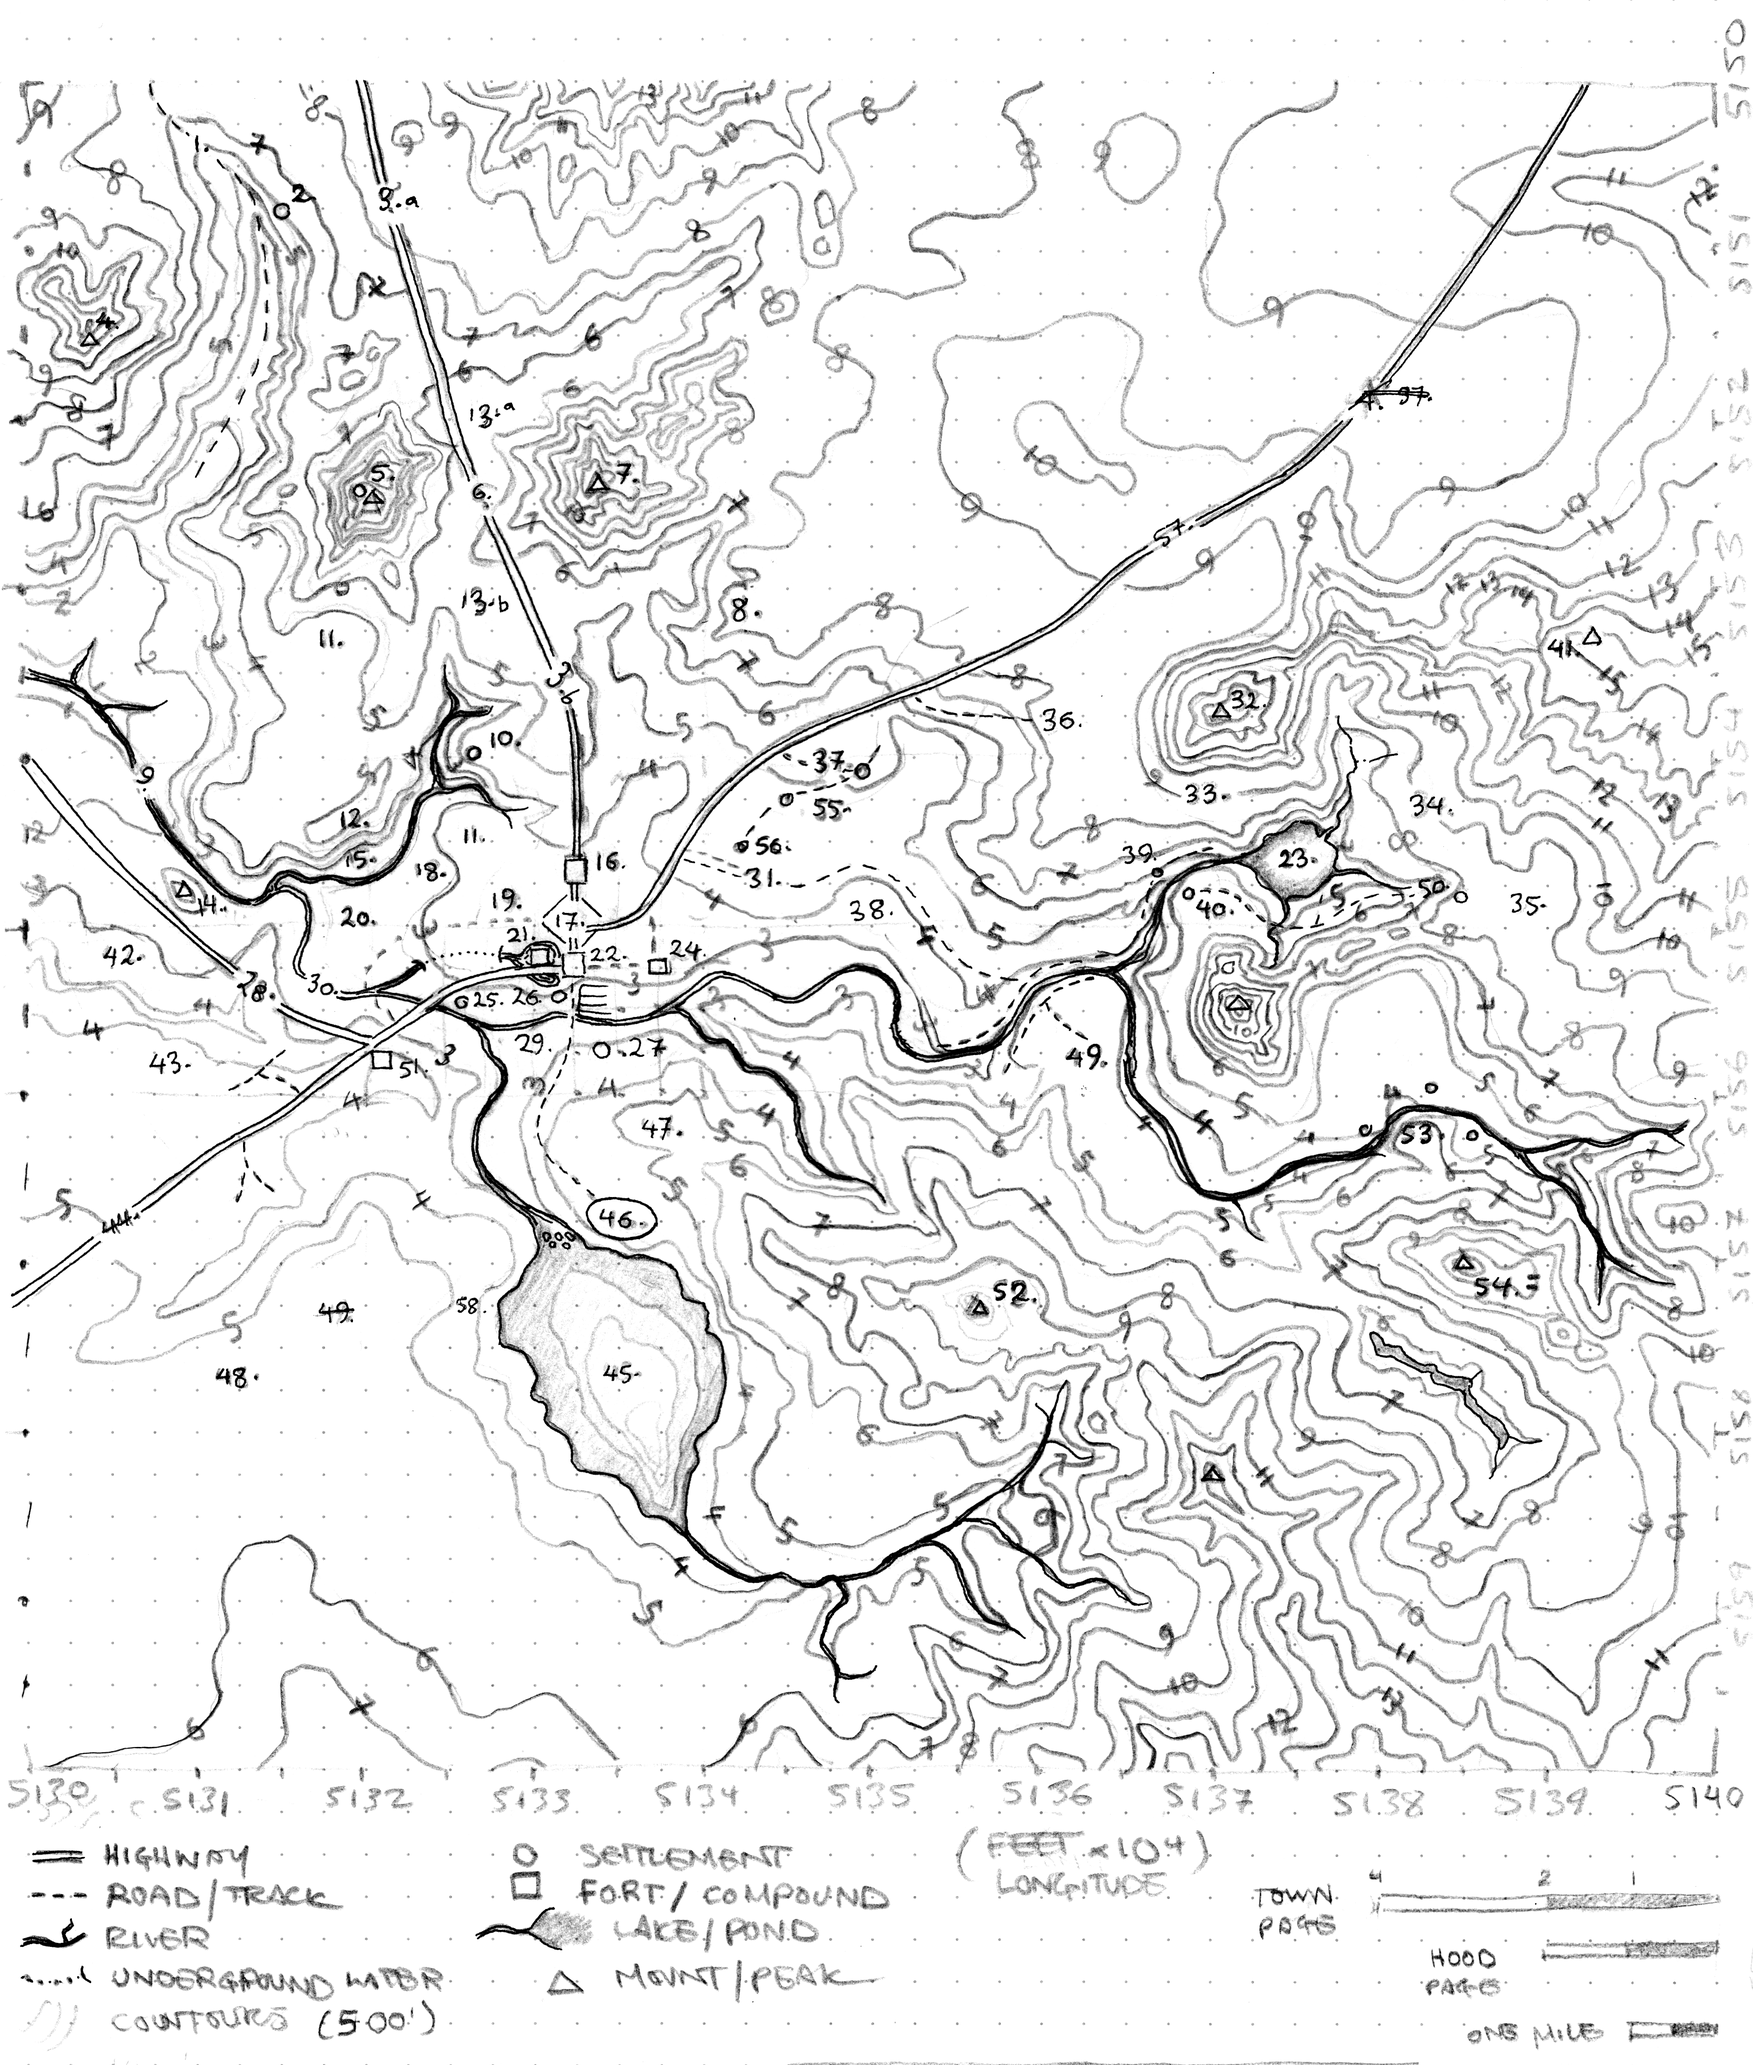
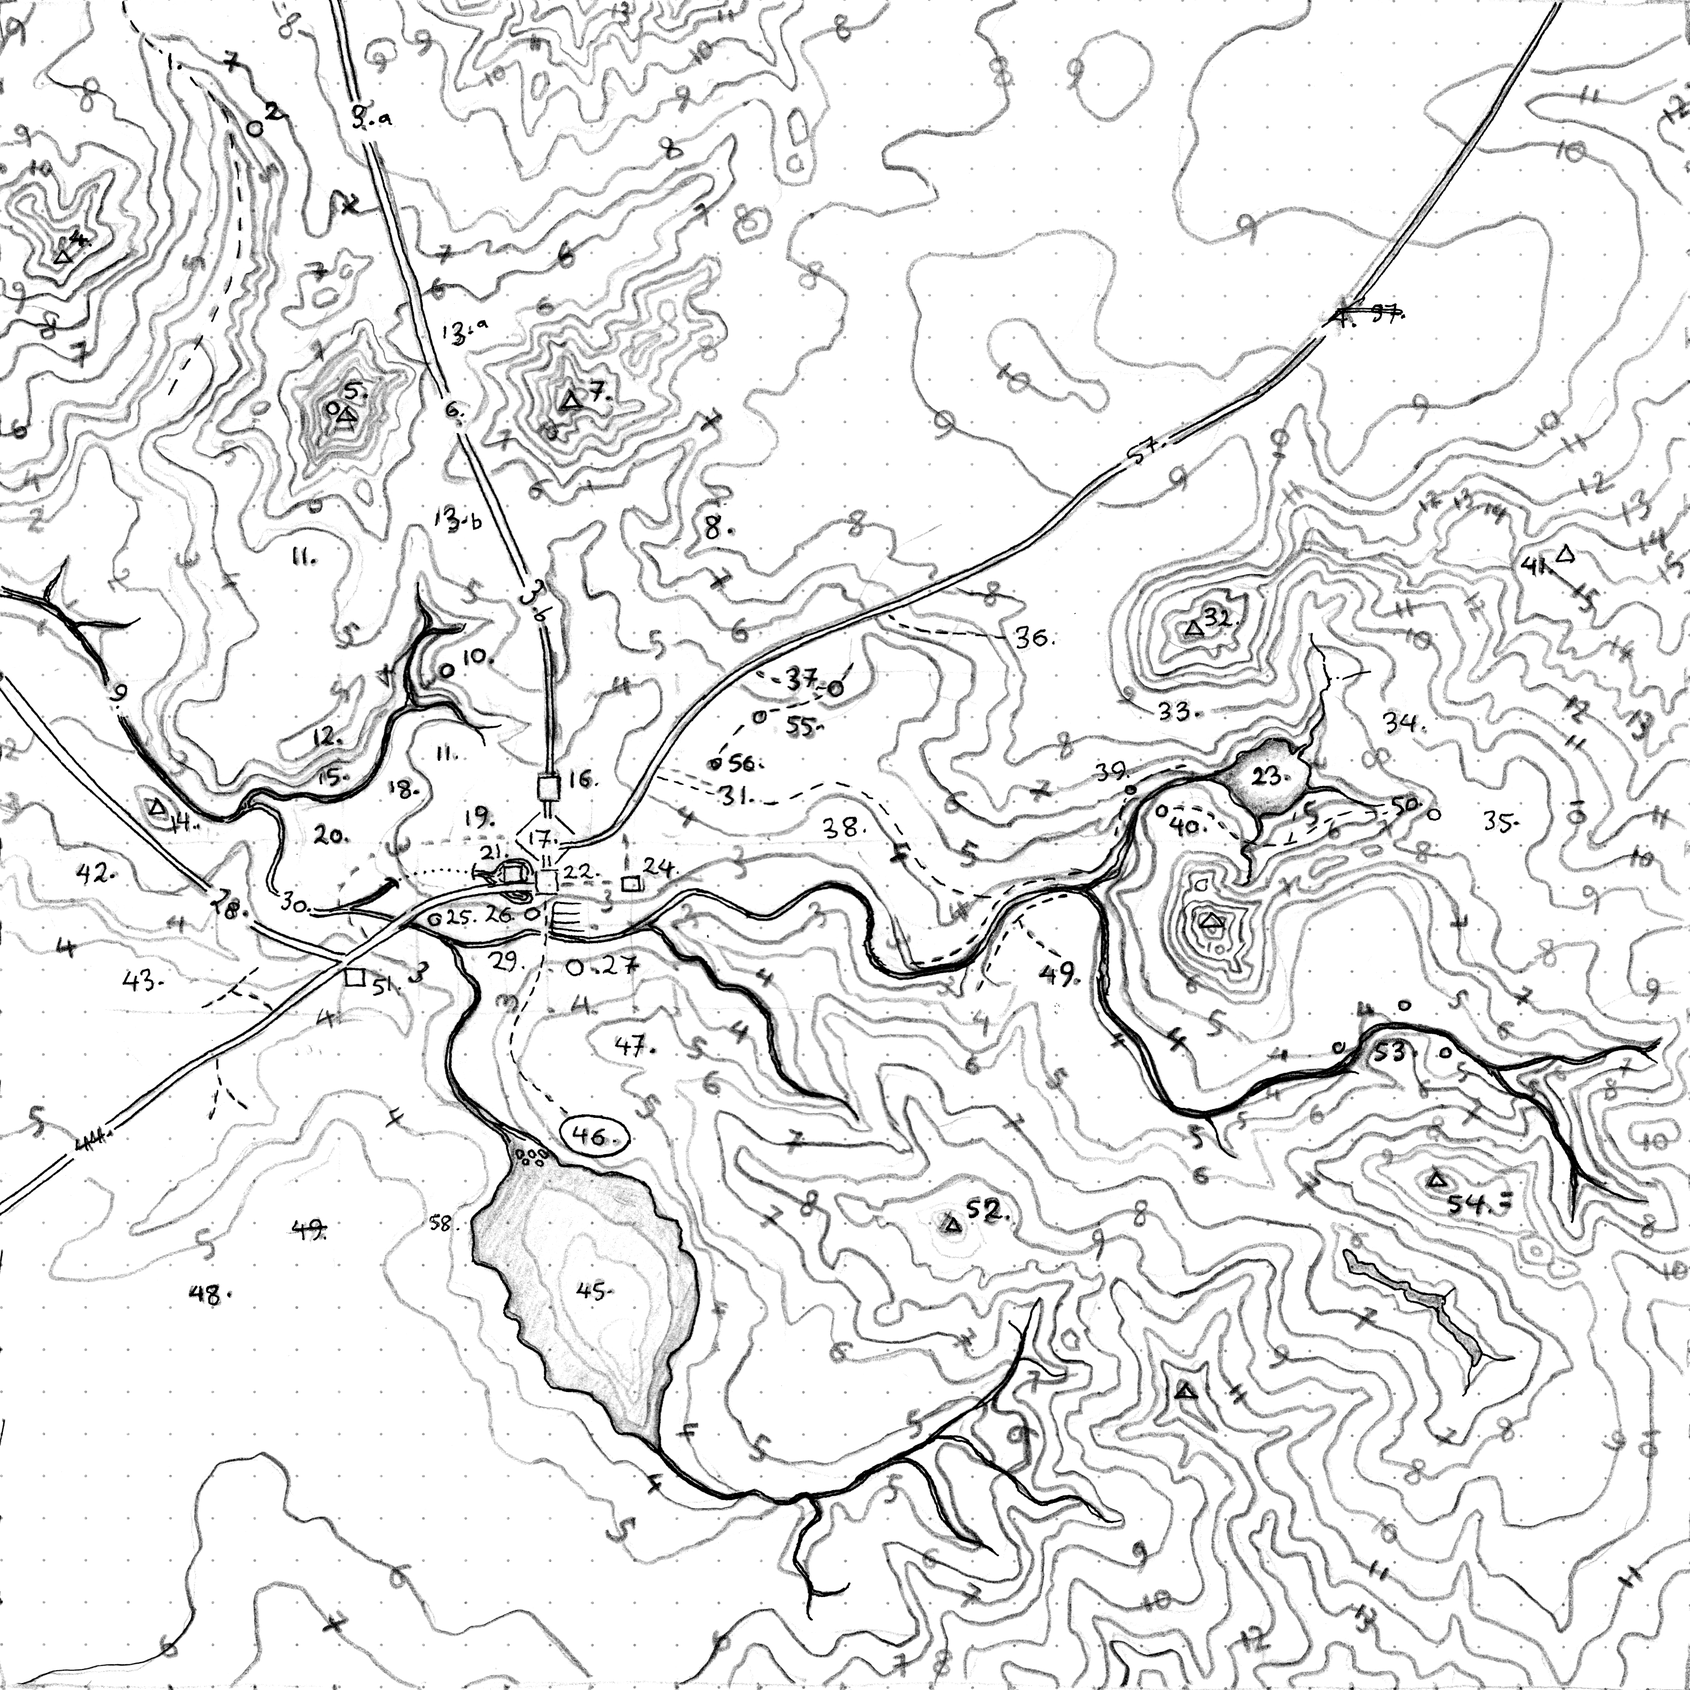
Add scale margins

diff --git a/app/MapViewer/MapTileSubLayout/ScaleMargins/scaleMargins.module.css b/app/MapViewer/MapTileSubLayout/ScaleMargins/scaleMargins.module.css
@@ -1,0 +1,71 @@
+.margin {
+  display: flex;
+  justify-content: space-between;
+  margin: 0;
+  padding: 0;
+  position: absolute;
+}
+
+.marker:nth-child(1),
+.marker:nth-child(11) {
+  visibility: hidden;
+}
+
+@media screen and (max-width: 400px) {
+  .margin .marker:nth-child(2),
+  .margin .marker:nth-child(3),
+  .margin .marker:nth-child(4),
+  .margin .marker:nth-child(5),
+  .margin .marker:nth-child(7),
+  .margin .marker:nth-child(8),
+  .margin .marker:nth-child(9),
+  .margin .marker:nth-child(10) {
+    display: none;
+  }
+}
+@media screen and (min-width: 401px) and (max-width: 600px) {
+  .margin .marker:nth-child(2),
+  .margin .marker:nth-child(4),
+  .margin .marker:nth-child(6),
+  .margin .marker:nth-child(8),
+  .margin .marker:nth-child(10) {
+    display: none;
+  }
+}
+
+.marker {
+  border-width: 5px 0 0;
+  border-style: solid;
+  border-image: repeating-linear-gradient(
+      90deg,
+      transparent,
+      transparent 49%,
+      black,
+      transparent 51%,
+      transparent
+    )
+    1;
+  list-style: none;
+  margin: 0;
+  text-align: center;
+  height: 20px;
+  width: 9.09090909%; /* 100 / 11 */
+}
+
+.westEastMargin {
+  bottom: -25px;
+  left: -5%;
+  right: -5%;
+}
+
+.northSouthMargin {
+  height: 20px;
+  transform: rotate(90deg) translate(-10px, calc(-50vw + 15px));
+  top: 50%;
+  left: -5%;
+  right: -5%;
+}
+
+.northSouthMargin .marker {
+  transform: rotate(180deg);
+}

diff --git a/app/MapViewer/MapTileSubLayout/ScaleMargins/index.tsx b/app/MapViewer/MapTileSubLayout/ScaleMargins/index.tsx
@@ -1,0 +1,32 @@
+import style from "./scaleMargins.module.css";
+
+export const ScaleMargins = () => (
+  <>
+    <ol className={`${style.northSouthMargin} ${style.margin}`}>
+      <li className={style.marker}>5150</li>
+      <li className={style.marker}>5151</li>
+      <li className={style.marker}>5152</li>
+      <li className={style.marker}>5153</li>
+      <li className={style.marker}>5154</li>
+      <li className={style.marker}>5155</li>
+      <li className={style.marker}>5156</li>
+      <li className={style.marker}>5157</li>
+      <li className={style.marker}>5158</li>
+      <li className={style.marker}>5159</li>
+      <li className={style.marker}>5160</li>
+    </ol>
+    <ol className={`${style.westEastMargin} ${style.margin}`}>
+      <li className={style.marker}>5130</li>
+      <li className={style.marker}>5131</li>
+      <li className={style.marker}>5132</li>
+      <li className={style.marker}>5133</li>
+      <li className={style.marker}>5134</li>
+      <li className={style.marker}>5135</li>
+      <li className={style.marker}>5136</li>
+      <li className={style.marker}>5137</li>
+      <li className={style.marker}>5138</li>
+      <li className={style.marker}>5139</li>
+      <li className={style.marker}>5140</li>
+    </ol>
+  </>
+);

diff --git a/app/MapViewer/Layout.tsx b/app/MapViewer/Layout.tsx
@@ -1,11 +1,12 @@
-import { MapPositionBar } from "./Components/MapPositionBar";
-import { MapTile } from "./Components/MapTile";
-import { MapTitle } from "./Components/MapTitle";
+import style from "./Layout.module.css";
+import { MapPositionBar } from "./MapPositionBar";
+import { MapTitle } from "./MapTitle/MapTitle";
+import { MapTileSubLayout } from "./MapTileSubLayout/Layout";
 
 export const MapViewLayout = () => (
-  <>
+  <div className={style.container}>
     <MapTitle />
-    <MapTile />
+    <MapTileSubLayout />
     <MapPositionBar />
-  </>
+  </div>
 );

diff --git a/app/MapViewer/MapTileSubLayout/Layout.tsx b/app/MapViewer/MapTileSubLayout/Layout.tsx
@@ -1,0 +1,14 @@
+import style from "./Layout.module.css";
+import { MapKeyAndScaleBars } from "../MapKeyAndScaleBars";
+import { MapTile } from "./MapTile";
+import { ScaleMargins } from "./ScaleMargins";
+
+export const MapTileSubLayout = () => (
+  <div className={style.container}>
+    <div className={style.centreSquare}>
+      <MapTile />
+      <ScaleMargins />
+    </div>
+    <MapKeyAndScaleBars />
+  </div>
+);

diff --git a/app/MapViewer/MapKeyAndScaleBars.tsx b/app/MapViewer/MapKeyAndScaleBars.tsx
@@ -1,0 +1,12 @@
+import Image from "next/image";
+import img from "../public/key+scale_bars.webp";
+
+export const MapKeyAndScaleBars = () => (
+  <Image
+    alt="Main map"
+    layout="responsive"
+    placeholder="blur"
+    priority={true}
+    src={img}
+  />
+);

diff --git a/app/MapViewer/MapTitle/MapTitle.tsx b/app/MapViewer/MapTitle/MapTitle.tsx
@@ -1,5 +1,5 @@
 import style from "./MapTitle.module.css";
 
 export const MapTitle = () => (
-  <h1 className={style.title}>Topographic map of Fortestend (City Scale)</h1>
+  <h1 className={style.title}>Topographic map of Fortestend</h1>
 );

diff --git a/app/MapViewer/MapTileSubLayout/MapTile/index.tsx b/app/MapViewer/MapTileSubLayout/MapTile/index.tsx
@@ -1,5 +1,5 @@
 import Image from "next/image";
-import mapImg from "../../public/working-tile.webp";
+import mapImg from "../../../public/working-tile.webp";
 
 export const MapTile = () => (
   <Image

diff --git a/app/MapViewer/MapTileSubLayout/Layout.module.css b/app/MapViewer/MapTileSubLayout/Layout.module.css
@@ -1,0 +1,9 @@
+.container {
+  margin: 30px;
+}
+
+.centreSquare {
+  border: 1px solid #0003;
+  position: relative;
+  margin-bottom: 50px;
+}

diff --git a/app/MapViewer/Layout.module.css b/app/MapViewer/Layout.module.css
@@ -1,0 +1,3 @@
+.container {
+  overflow: hidden;
+}
